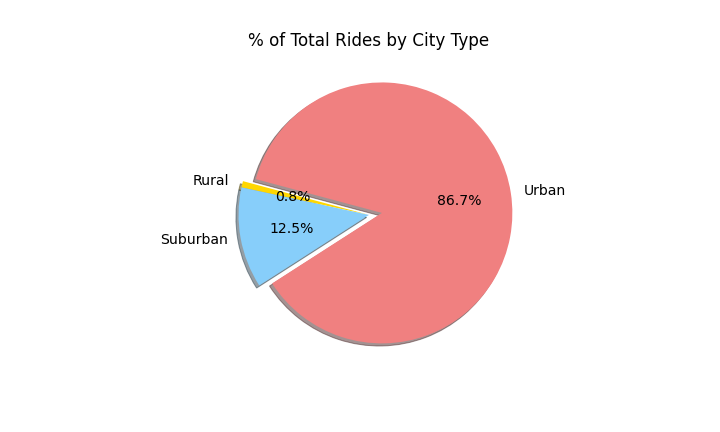
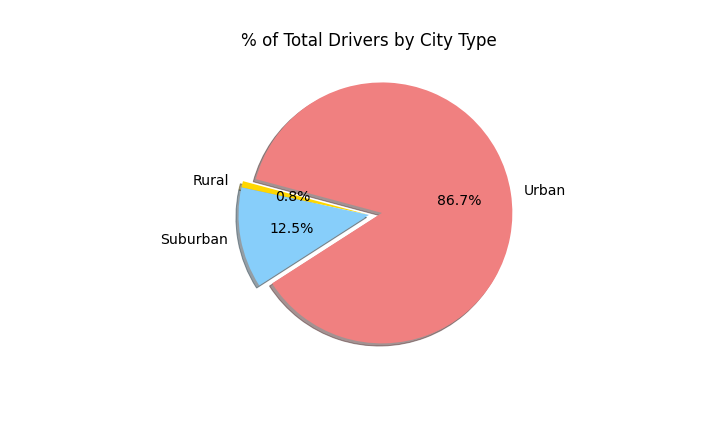
fixed typo in image title

Changed region(s): [[0.3361, 0.0602, 0.7028, 0.1204]]

diff --git a/README.md b/README.md
@@ -11,6 +11,19 @@ The following dataframe that shows the summary of rides by each city types:
 
 ![Summary](https://github.com/yaejinpark/pyber_analysis/blob/main/analysis/Pyber_summary.png)
 
+Urban cities have the highest number of drivers, rides and total fares. Rural cities have the lowest for the same categories. Interestingly, rural cities have the highest average fare per ride and average fare per driver. Suburban cities' fare data fall in the middle of the two.
+
+Just from a glance, it's difficult to tell what these numbers indicate, so the ride data were plotted as shown below:
+
 ![Plot](https://github.com/yaejinpark/pyber_analysis/blob/main/analysis/PyBer_fare_summary.png)
 
+As expected, fares from urban cities are at all-time high among the three city types, rural cities at the lowest, and suburban cities right inbetween. There are some dips and peaks for suburban and urban fares, urban more so during March, but rural fares plot doesn't have a specific dip although it does have occasional peaks.
+
 ## Summary
+### 
+
+
+### Recommendations
+Any specific landmarks around specific towns?
+Ride duration - are rural areas avoided by drivers due to likely chance of long drives? Does it include tips? Start and end locations
+Fare details - are tips included?
